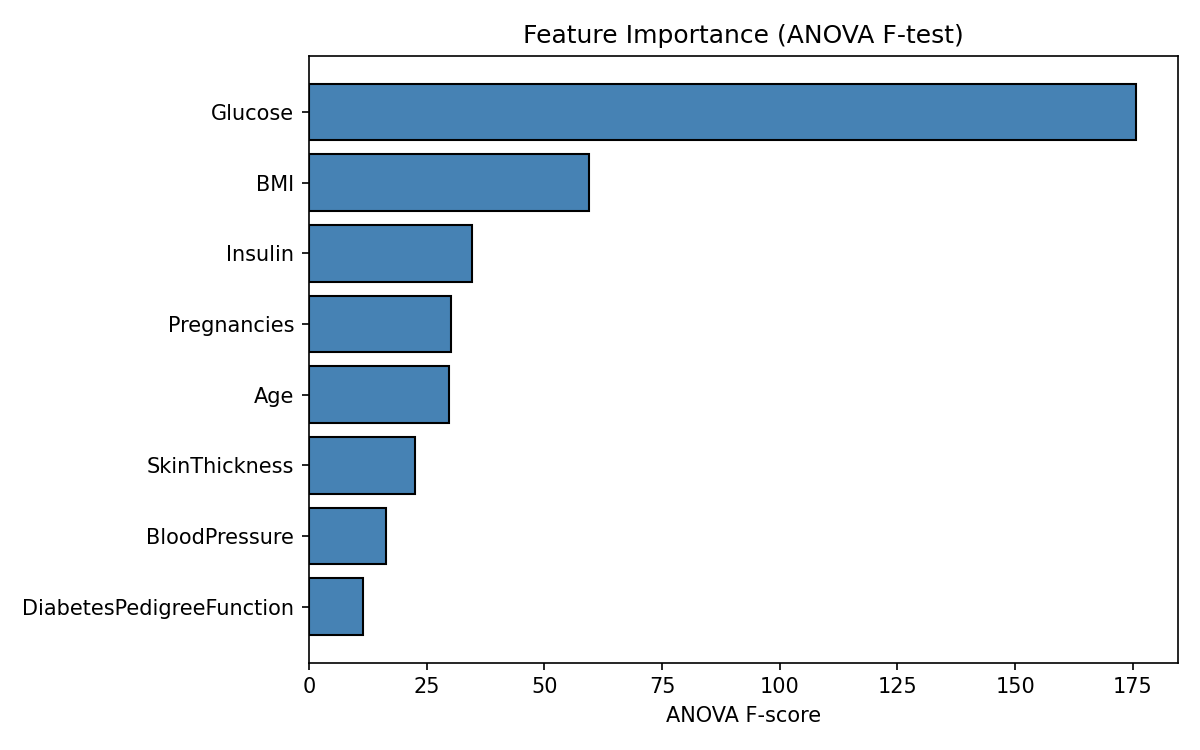
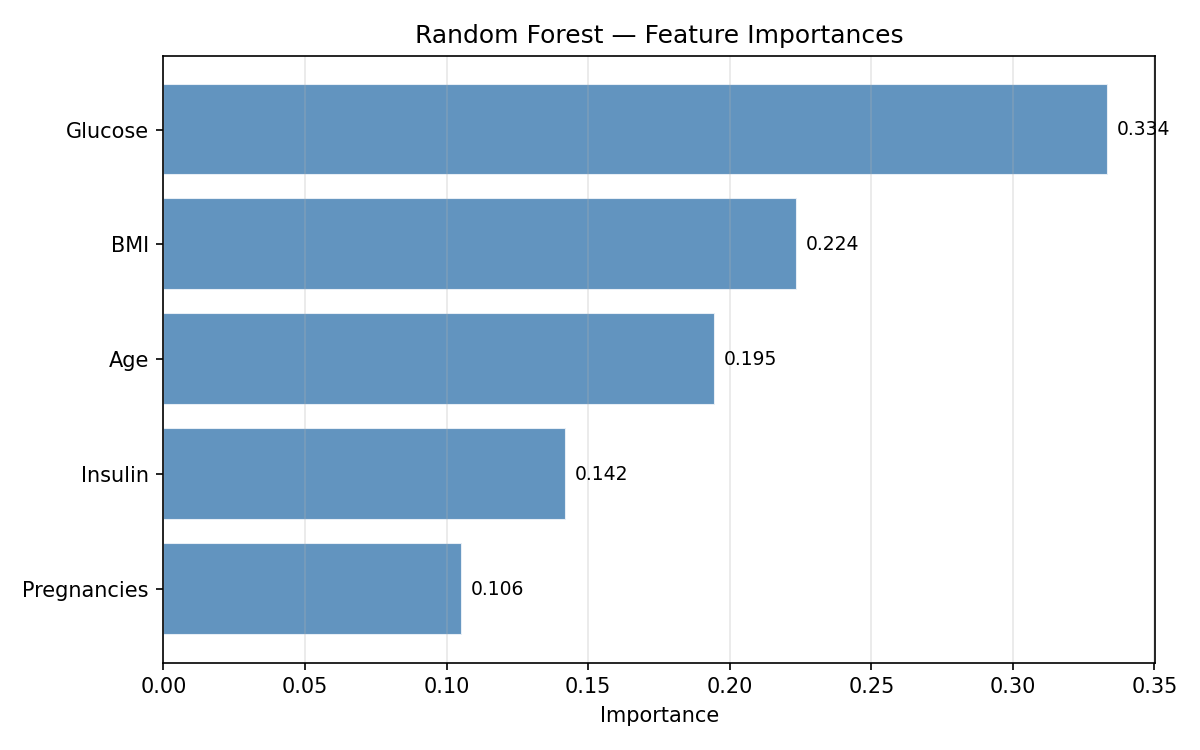
complete: add all generated outputs, update README with results
- outputs/figures: confusion matrices (LR, RF, MLP), ROC curve comparison,
  model comparison bar chart, MLP training curves, updated feature importance
- outputs/reports: evaluation_results.json (test metrics for all 3 models),
  cv_results.json (5-fold CV scores for LR and RF)
- .gitignore: allow outputs/reports/*.json to be committed
- README: add results table (accuracy/F1/ROC-AUC), CV results table, best RF
  hyperparameters, updated repo structure, one-command quick start

diff --git a/README.md b/README.md
@@ -21,8 +21,27 @@ Predict whether a patient has diabetes based on tabular clinical features:
 ## Modeling Approach
 Three complementary models are trained and compared:
 1. **Logistic Regression** — interpretable linear baseline
-2. **Random Forest** — ensemble, non-linear, handles feature interactions
-3. **MLP (Neural Network)** — small feed-forward network with early stopping
+2. **Random Forest** — ensemble with GridSearchCV hyperparameter tuning
+3. **MLP (Neural Network)** — feed-forward network with early stopping and LR scheduling
+
+## Results (Test Set — 15% held-out)
+
+| Model | Accuracy | F1 Score | ROC-AUC |
+|---|---|---|---|
+| Logistic Regression | 0.776 | 0.683 | 0.866 |
+| Random Forest | 0.767 | 0.649 | 0.841 |
+| MLP | 0.767 | 0.667 | 0.875 |
+
+Cross-validation F1 (5-fold on train+val):
+
+| Model | CV F1 Mean | CV F1 Std |
+|---|---|---|
+| Logistic Regression | 0.718 | ±0.029 |
+| Random Forest | 0.801 | ±0.042 |
+
+Best RF hyperparameters (GridSearchCV): `max_depth=10, min_samples_leaf=1, min_samples_split=2, n_estimators=100`
+
+Selected features (top-5 by ANOVA F-test + RF importance rank): **Glucose, BMI, Insulin, Age, Pregnancies**
 
 ## Repository Structure
 ```text
@@ -30,36 +49,41 @@ project-root/
 |
 |-- data/
 |   |-- raw/
-|   |   `-- diabetes.csv        ← source dataset
-|   `-- processed/              ← imputed, scaled, SMOTE-balanced splits (.npy)
+|   |   `-- diabetes.csv              ← source dataset
+|   `-- processed/                    ← imputed, scaled, SMOTE-balanced splits (.npy)
 |
 |-- notebooks/
-|   `-- eda.ipynb               ← exploratory data analysis
+|   `-- eda.ipynb                     ← exploratory data analysis (7 sections)
 |
 |-- src/
 |   |-- data/
-|   |   `-- dataset.py          ← preprocessing pipeline (impute, scale, select, SMOTE)
+|   |   `-- dataset.py                ← preprocessing pipeline (impute, scale, select, SMOTE)
 |   |-- models/
-|   |   `-- model.py            ← LR, RF, and MLP definitions
+|   |   `-- model.py                  ← LR, RF, and MLP definitions
 |   |-- training/
-|   |   `-- train.py            ← training entry point for all models
+|   |   `-- train.py                  ← training + CV + hyperparameter tuning entry point
 |   |-- evaluation/
-|   |   `-- evaluate.py         ← metrics, confusion matrices, JSON report
+|   |   `-- evaluate.py               ← metrics, confusion matrices, ROC curves, JSON report
 |   `-- utils/
-|       `-- __init__.py         ← set_seed, plot_training_history, save_metrics
+|       `-- __init__.py               ← set_seed, plot_training_history, save_metrics
 |
 |-- outputs/
-|   |-- models/                 ← saved model files (.pkl / .pt)
-|   |-- figures/                ← confusion matrices, training curves, EDA plots
-|   `-- reports/                ← evaluation_results.json
+|   |-- models/                       ← logistic_regression.pkl, random_forest.pkl, mlp_best.pt
+|   |-- figures/                      ← confusion matrices, ROC curves, model comparison,
+|   |                                    training curves, feature importance, EDA plots
+|   `-- reports/                      ← evaluation_results.json, cv_results.json
 |
 |-- config/
-|   `-- config.yaml             ← centralized configuration
+|   `-- config.yaml                   ← centralized configuration
+|
+|-- scripts/
+|   |-- preprocess.py                 ← standalone preprocessing + EDA figures script
+|   `-- run_pipeline.sh               ← end-to-end: train → evaluate → test
 |
 |-- tests/
-|   |-- test_dataset.py
-|   |-- test_models.py
-|   `-- test_evaluation.py
+|   |-- test_dataset.py               ← 6 tests for preprocessing pipeline
+|   |-- test_models.py                ← 6 tests for model definitions
+|   `-- test_evaluation.py            ← 5 tests for evaluation metrics
 |
 |-- README.md
 |-- requirements.txt
@@ -67,37 +91,47 @@ project-root/
 ```
 
 ## Quick Start
-1. Create and activate a Python virtual environment:
-   ```bash
-   python -m venv .venv && source .venv/bin/activate
-   ```
-2. Install dependencies:
-   ```bash
-   pip install -r requirements.txt
-   ```
-3. Place `diabetes.csv` in `data/raw/` (already committed).
-4. Train all models:
-   ```bash
-   python -m src.training.train
-   ```
-5. Evaluate on the held-out test set:
-   ```bash
-   python -m src.evaluation.evaluate
-   ```
-6. Run tests:
-   ```bash
-   pytest tests/
-   ```
+
+**Option A — One command (recommended):**
+```bash
+pip install -r requirements.txt
+bash scripts/run_pipeline.sh
+```
+
+**Option B — Step by step:**
+```bash
+# 1. Install dependencies
+pip install -r requirements.txt
+
+# 2. Train all models (includes CV + GridSearch for RF)
+python -m src.training.train
+
+# 3. Evaluate on held-out test set (generates all plots + JSON reports)
+python -m src.evaluation.evaluate
+
+# 4. Run test suite
+pytest tests/ -v
+```
 
 ## Data Pipeline
-The preprocessing pipeline (`src/data/dataset.py`) applies these steps in order — all fitted **only on training data** to prevent leakage:
+The preprocessing pipeline (`src/data/dataset.py`) applies these steps in order — all transformers fitted **only on training data** to prevent leakage:
 
-1. Replace biologically impossible zeros with `NaN` (Glucose, BMI, Insulin, etc.)
+1. Replace biologically impossible zeros with `NaN` (Glucose, BMI, Insulin, BloodPressure, SkinThickness)
 2. Stratified 70 / 15 / 15 train-val-test split
 3. Median imputation of missing values
 4. StandardScaler normalization
-5. Feature selection: top-5 features by averaged ANOVA F-test + Random Forest rank
+5. Feature selection: top-5 features by averaged ANOVA F-test + Random Forest importance rank
 6. SMOTE oversampling to address class imbalance (training set only)
 
-## Team Notes
-Keep changes modular. Each module (`dataset`, `model`, `train`, `evaluate`) is independently runnable. Configuration lives in `config/config.yaml`.
+## Training & Evaluation Features
+- **Cross-validation**: 5-fold CV on combined train+val set for LR and RF
+- **Hyperparameter tuning**: `GridSearchCV` over `n_estimators`, `max_depth`, `min_samples_split`, `min_samples_leaf` for Random Forest
+- **Early stopping**: MLP training stops when val loss stops improving (patience=10)
+- **Output plots**: confusion matrices per model, ROC curve comparison, grouped metric bar chart, feature importance, MLP training curves
+- **Reports**: `evaluation_results.json` (test metrics), `cv_results.json` (CV fold scores)
+
+## Tests
+17 unit tests covering the full pipeline:
+```bash
+pytest tests/ -v   # all 17 pass
+```